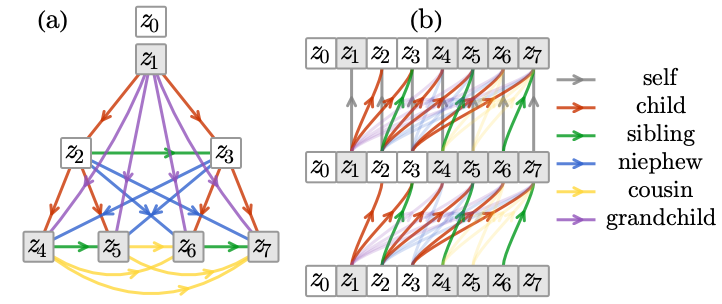
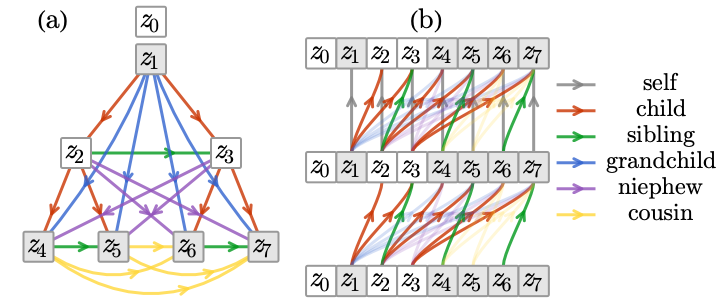
updated notes

diff --git a/hierarchical/model.py b/hierarchical/model.py
@@ -33,13 +33,13 @@ class Lattice(object):
         """ Node initialization, calculate basic node information
             for other methods in this class to work.
             Called by class initialization. """
-        self.node_levels = torch.zeros(self.sites, dtype=torch.int)
-        self.node_centers = torch.zeros(self.sites, self.dimension, dtype=torch.float)
+        #self.node_levels = torch.zeros(self.sites, dtype=torch.int)
+        #self.node_centers = torch.zeros(self.sites, self.dimension, dtype=torch.float)
         self.node_index = torch.zeros(self.sites, dtype=torch.long)
         def partition(rng: torch.Tensor, dim: int, ind: int, lev: int):
             if rng[dim].sum()%2 == 0:
-                self.node_levels[ind] = lev
-                self.node_centers[ind] = rng.to(dtype=torch.float).mean(-1)
+                #self.node_levels[ind] = lev
+                #self.node_centers[ind] = rng.to(dtype=torch.float).mean(-1)
                 mid = rng[dim].sum()//2
                 rng1 = rng.clone()
                 rng1[dim, 1] = mid
@@ -50,64 +50,37 @@ class Lattice(object):
             else:
                 self.node_index[ind-self.sites] = rng[:,0].dot(self.size**torch.arange(0,self.dimension).flip(0))
         partition(torch.tensor([[0, self.size]]*self.dimension), 0, 1, 1)
-        
-    def causal_graph(self, speed_of_light: float = 1.):
+    
+    def causal_graph(self, k = 3):
         """ Construct causal graph 
-            Args: speed_of_light - speed of causal cone expansion across one layer
-            Returns causal edges, group by their types of causal relations
-            in the form of a dictionary
+            Args: k - number of generations to consider
         """
-        def discover_causal_connection(z: int):
-            # Args: z - level of the source
-            source_pos = self.node_centers[2**(z-1):2**z]
-            target_pos = self.node_centers[2**z:2**(z+1)]
-            displacement = source_pos.unsqueeze(0) - target_pos.unsqueeze(1) # displacement between source and target 
-            displacement = (displacement + self.size/2)%self.size - self.size/2 # assuming periodic boundary
-            distance = torch.norm(displacement, dim=-1) # distance
-            time_scale = 2**((self.tree_depth-1-z)/self.dimension)
-            mask = distance < speed_of_light * time_scale
-            target_ids, source_ids = torch.nonzero(mask, as_tuple=True)
-            return (2**(z-1) + source_ids, 2**z + target_ids)
-        def to_adj(edge_index):
-            # edge index -> adjecency matrix
-            ones = torch.ones(edge_index.size(-1), dtype=torch.long)
-            return torch.sparse.LongTensor(edge_index.flip(0), ones, torch.Size([self.sites]*2)).to_dense()
-        def to_edge_index(adj):
-            # adjacency matrix -> edge index
-            target, source = torch.nonzero(adj, as_tuple=True)
-            return torch.stack([source, target])
-        def re_adj(adj):
-            # rectify adjacency matrix:
-            # (a) trucate to lower triangle to preserve the causal ordering
-            # (b) clamping all elements to 0, 1
-            return torch.tril(adj, -1).clamp(0, 1)
-        def make_edge_type(edge_index, typ):
-            # contrust constant array of typ, matching size(-1) of edge_index
-            return edge_index.new_full((1, edge_index.size(-1)), typ)
-        # get direct causal connections
-        level_graded_result = [discover_causal_connection(z) for z in range(1, self.tree_depth-1)]
-        edge_index = torch.stack([torch.cat(tens, 0) for tens in zip(*level_graded_result)])
-        # develop derived causal connections
-        adj0 = to_adj(torch.stack([torch.arange(1, self.sites)]*2)) # self (excluding node 0)
-        adj1 = to_adj(edge_index) # child
-        adj2 = adj1 @ adj1 # grandchild
-        #adj3 = adj2 @ adj1 # grandgrandchild
-        adj11 = re_adj(adj1 @ adj1.t()) # sibling
-        adj22 = re_adj(adj2 @ adj2.t() + adj11) - adj11 # cousin
-        adj21 = re_adj(adj2 @ adj1.t() + adj1) - adj1 # niephew
-        # collect causal relations by types
-        adjs = [adj0, adj1, adj11, adj21, adj22, adj2]
-        # convert to edge_index for return
-        edge_index_list = [to_edge_index(adj) for adj in adjs]
-        edge_type_list = [make_edge_type(edge_index, typ) for typ, edge_index in enumerate(edge_index_list)]
-        return torch.cat([torch.cat(edge_index_list, -1), torch.cat(edge_type_list, -1)], 0)
-
-    def node_position_encoding(self):
-        """ Construct position encoding of all nodes """
-        phase = 2*math.pi*self.node_centers/self.size
-        levels = self.node_levels.to(dtype=torch.float).unsqueeze(-1)
-        encoding = torch.cat([phase.sin(), phase.cos(), levels], -1)
-        return encoding
+        self.family = {} # a dict hosting all relatives
+        def child(i, k): # kth-generation child of node i
+            return set(2**k * i + q for q in range(2**k))
+        def relative(k0, k1): # (k0, k1)-relatives
+            # two nodes i0 and i1 are (k0, k1)-relative,
+            # if their closest common ancestor is k0 and k1 generations from them respectively
+            if (k0, k1) not in self.family: # if relation not found
+                rels = set() # start collecting relative relations
+                for i in range(1, self.sites//2**max(k0, k1)): # for every possible common ancestor
+                    ch0 = child(i, k0) # set of k0-child
+                    ch1 = child(i, k1) # set of k1-child
+                    rels |= set((i0, i1) for i0 in ch0 for i1 in ch1 if i0 <= i1)
+                for k in range(min(k0, k1)): # exlusing closer relatives
+                    rels -= relative(k0 - k - 1, k1 - k - 1)
+                self.family[(k0, k1)] = rels # record the relations
+            return self.family[(k0, k1)]
+        # collect all relatives within k generations
+        typ = 0
+        gen = {}
+        for k1 in range(0, k):
+            for k0  in range(0, k1 + 1):
+                gen[typ] = relative(k0, k1)
+                typ += 1
+        index_list = [torch.tensor(sorted(list(gen[typ]))).t() for typ in gen]
+        type_list = [torch.Tensor().new_full((1, len(gen[typ])), typ, dtype=torch.long) for typ in gen]
+        return torch.cat([torch.cat(index_list, -1), torch.cat(type_list, -1)], 0)
 
 class Group(object):
     """Represent a group, providing multiplication and inverse operation.
